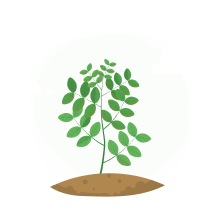
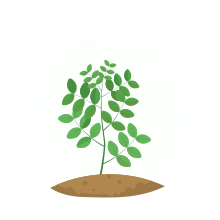
update to display crop image according to crop name

diff --git a/agricord/modules/paddockPage/index.js b/agricord/modules/paddockPage/index.js
@@ -88,19 +88,24 @@ class paddockPage extends Component{
         {
           (paddock && paddock.from == "due" && data) && (
             <React.Fragment>
-              <View style={Style.imageContainer}>  
+              <View style={Style.imageContainer}>
                 <Image
                   style={Style.image}
-                  source={require('assets/FieldPea.png')}
-                  />
+                  source={data.crop_name.toLowerCase() == 'field pea' ? require('assets/FieldPea.png') :
+                          data.crop_name.toLowerCase() == 'canola' ? require('assets/Canola.png') :
+                          data.crop_name.toLowerCase() == 'wheat' ? require('assets/Wheat.png') :
+                          data.crop_name.toLowerCase() == 'fallow' ? require('assets/Fallow.png') :
+                          require('assets/Canola.png')}
+                />
               </View>
               <View style={Style.textContainer}>
-                <Text style={Style.text}>Field Pea</Text>
+                {/* <Text style={Style.text}>Field Pea</Text> */}
+                <Text style={Style.text}>{data.crop_name}</Text>
                 <Text style={{
                     textAlign:'center',
                     fontSize: BasicStyles.standardFontSize,
                     color: Color.gray
-                  }}>{data.crop_name}</Text> 
+                  }}>CROP</Text> 
               </View>
               <Divider style={{
                   width:'90%'
